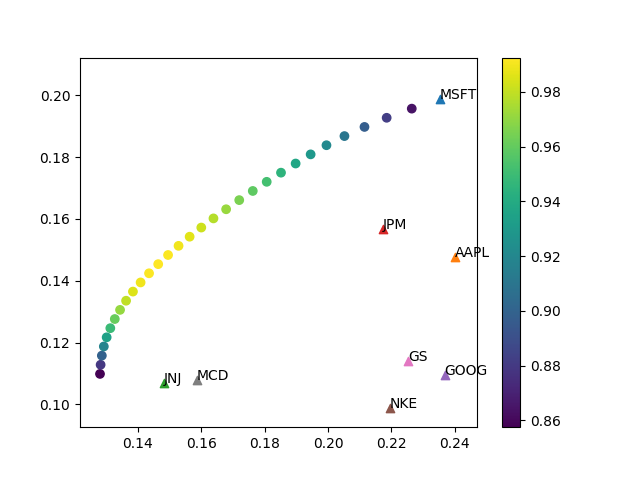
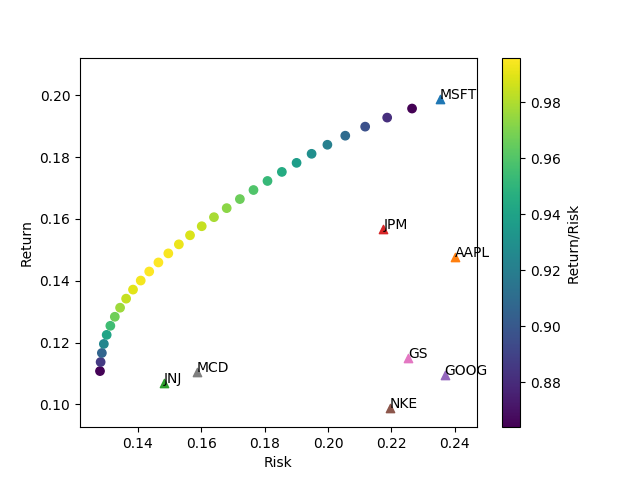
Add labels

diff --git a/plot.py b/plot.py
@@ -6,7 +6,7 @@ import plotly.graph_objs as go
 import matplotlib.pyplot as plt
 
 
-def plot_rr(rets, frontier=False):
+def plot_rr(rets, frontier=True):
     """
     Plot Mean-Variance with Efficient Frontier with matplotlib.
     """
@@ -17,18 +17,20 @@ def plot_rr(rets, frontier=False):
         plt.annotate(s, (vol[s], ret[s]))
 
     if not frontier:
-        plt.savefig('mpt.png')
+        plt.savefig('frontier.png')
         return
 
     weights, points = compute_frontier(rets)
     ret, vol, sha = zip(*points)
 
     plt.scatter(vol, ret, c=sha)
-    plt.colorbar()
-    plt.savefig('mpt.png')
+    plt.colorbar(label='Return/Risk')
+    plt.xlabel('Risk')
+    plt.ylabel('Return')
+    plt.savefig('frontier.png')
 
 
-def plotly_rr(rets, frontier=False):
+def plotly_rr(rets, frontier=True):
     """
     Plot Mean-Variance with Efficient Frontier with plotly.
     """
@@ -75,6 +77,6 @@ def plotly_rr(rets, frontier=False):
 
 
 if __name__ == "__main__":
-    stocks = ['MSFT', 'AAPL', 'JNJ', 'JPM', 'GOOG']
+    stocks = ['MSFT', 'AAPL', 'JNJ', 'JPM', 'GOOG', 'NKE', 'GS', 'MCD']
     df  = get_pct(stocks, '01/01/2014', '31/12/2016')
-    plotly_rr(df, True)
+    plot_rr(df, True)
